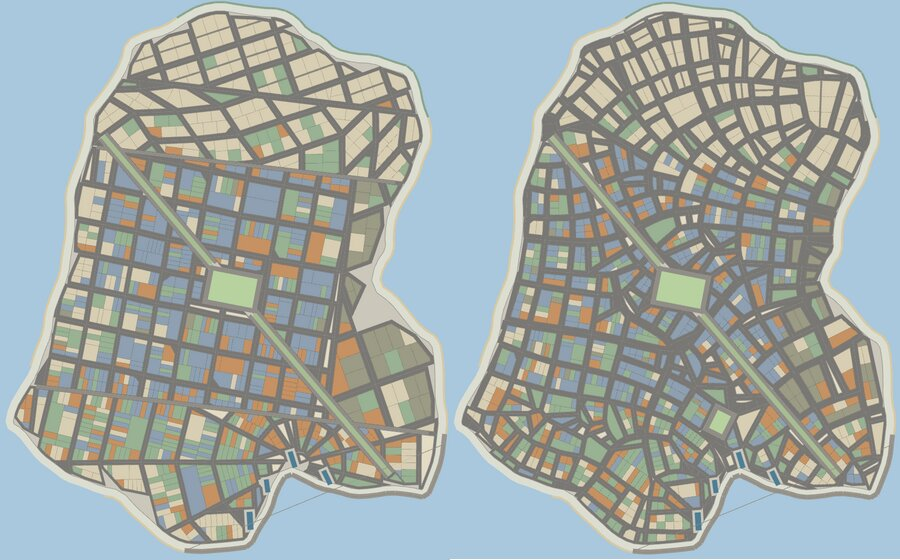
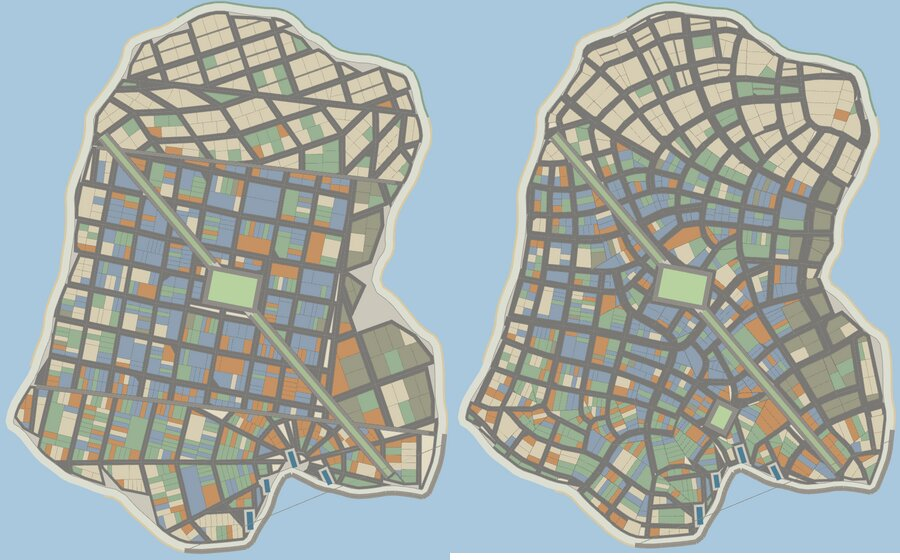
CITYGEN_NEXT_PLAN: refreshed images and measurements
Claude-Session: https://claude.ai/code/session_01BSvUYUkZGsrMRDvk2r2obY

Changed region(s): [[0.4978, 0.0, 1.0, 1.0]]

diff --git a/broadway-and-wall/CITYGEN_NEXT_PLAN.md b/broadway-and-wall/CITYGEN_NEXT_PLAN.md
@@ -72,6 +72,11 @@ inland toward the core) and get a 60 x 44 m market square there unless a program
 already sits within 150 m: Dock Square's order of size, squared to the shore. It is where
 the old town's roads converge, and without it they knot into wedges.
 
+**Party lines.** A face too concave to be one convex block is cut into convex pieces only
+because the lot cutter wants convex blocks; the cut is a party line between two halves of
+one block, so it pays no street, and a half whose long side is that line is platted as one
+row of full-depth lots rather than two rows back to back.
+
 **Estates** (the superblock district) are cut to their own slab size, and their ordinary
 streets take the town's median street width — in classic only the estate's ring road is
 22-25 m wide.
@@ -112,15 +117,19 @@ Seed 481923 "Stancliff Landing":
 
 Measured on the prototype (City size; `tools/platlib.mjs`):
 
-| seed | lots classic | lots natural | change | sliver % (nat) | paved void % cls → nat |
-|---|---|---|---|---|---|
-| 2967923640 | 951 | 970 | +2% | 0.0 | 3.1 → 2.1 |
-| 1 | 1453 | 1343 | -8% | 0.0 | 5.7 → 4.3 |
-| 20261 | 1384 | 1241 | -10% | 0.0 | 3.8 → 3.0 |
-| 555 | 1191 | 1198 | +1% | 0.0 | 5.2 → 3.8 |
-| 3252 | 1076 | 1106 | +3% | 0.0 | 4.0 → 3.2 |
-| 481923 | 999 | 1037 | +4% | 0.0 | 4.6 → 3.3 |
-| 2967923640 Great City | 3876 | 4145 | +7% | | |
+| seed | lots classic | lots natural | change | lot area classic → natural (M sf) |
+|---|---|---|---|---|
+| 2967923640 | 951 | 1011 | +6% | 7.88 → 7.53 (-4%) |
+| 1 | 1453 | 1347 | -7% | 7.33 → 7.69 (+5%) |
+| 20261 | 1384 | 1257 | -9% | 8.71 → 8.64 (-1%) |
+| 555 | 1191 | 1183 | -1% | 7.90 → 8.38 (+6%) |
+| 3252 | 1076 | 1123 | +4% | |
+| 481923 | 999 | 1067 | +7% | |
+| 2967923640 Great City | 3876 | 4176 | +8% | |
+
+`test/plat.mjs` on its twelve pinned seeds (City): lots 13,257 classic → 12,728 natural
+(-4%); sliver 0% and spikes 0% in both; street share (pavement per unit of block) median
+1.61 classic → 1.58 natural; largest unprogrammed void the same (a park apron, 14,943 m2).
 
 Lot counts stay inside the classic town-to-town spread (the economy's calibration reads lot
 count and area per size preset), and the natural network leaves less unprogrammed asphalt
